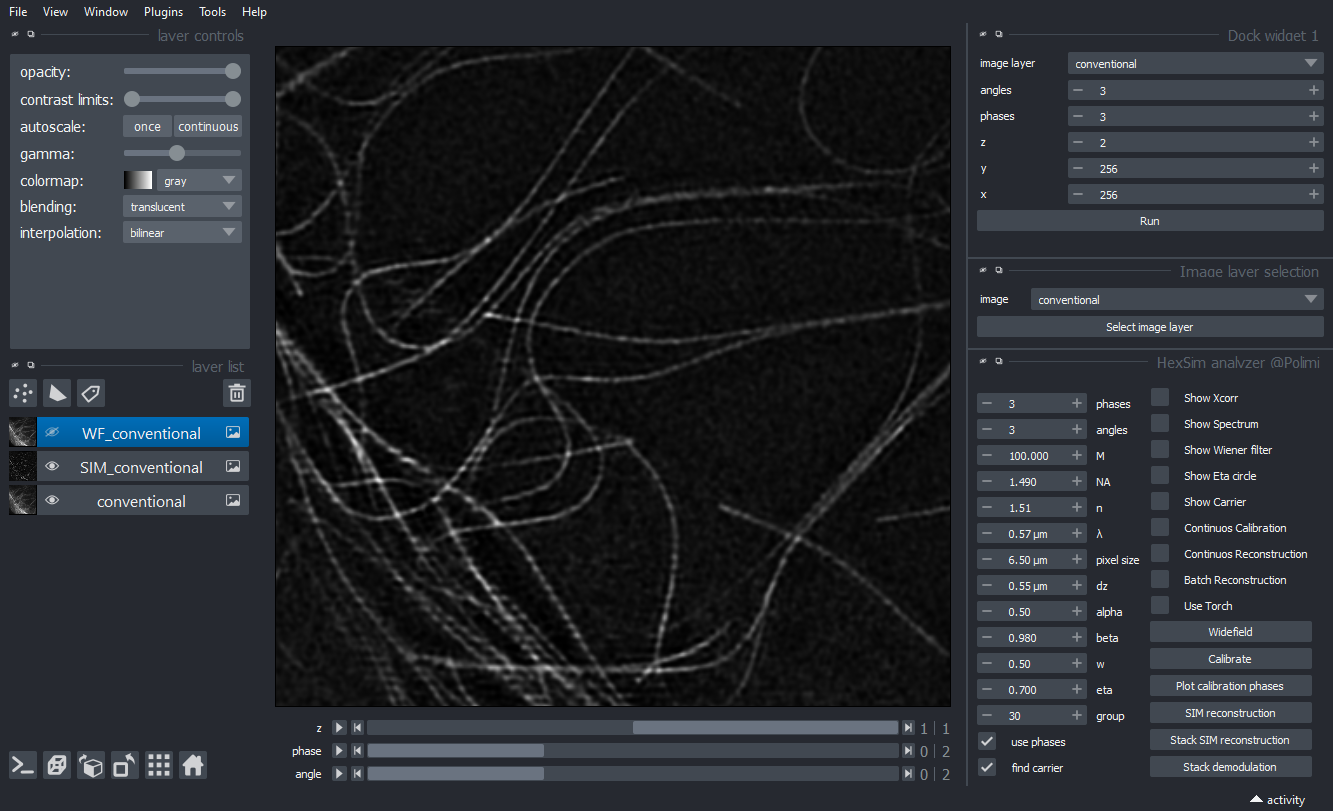
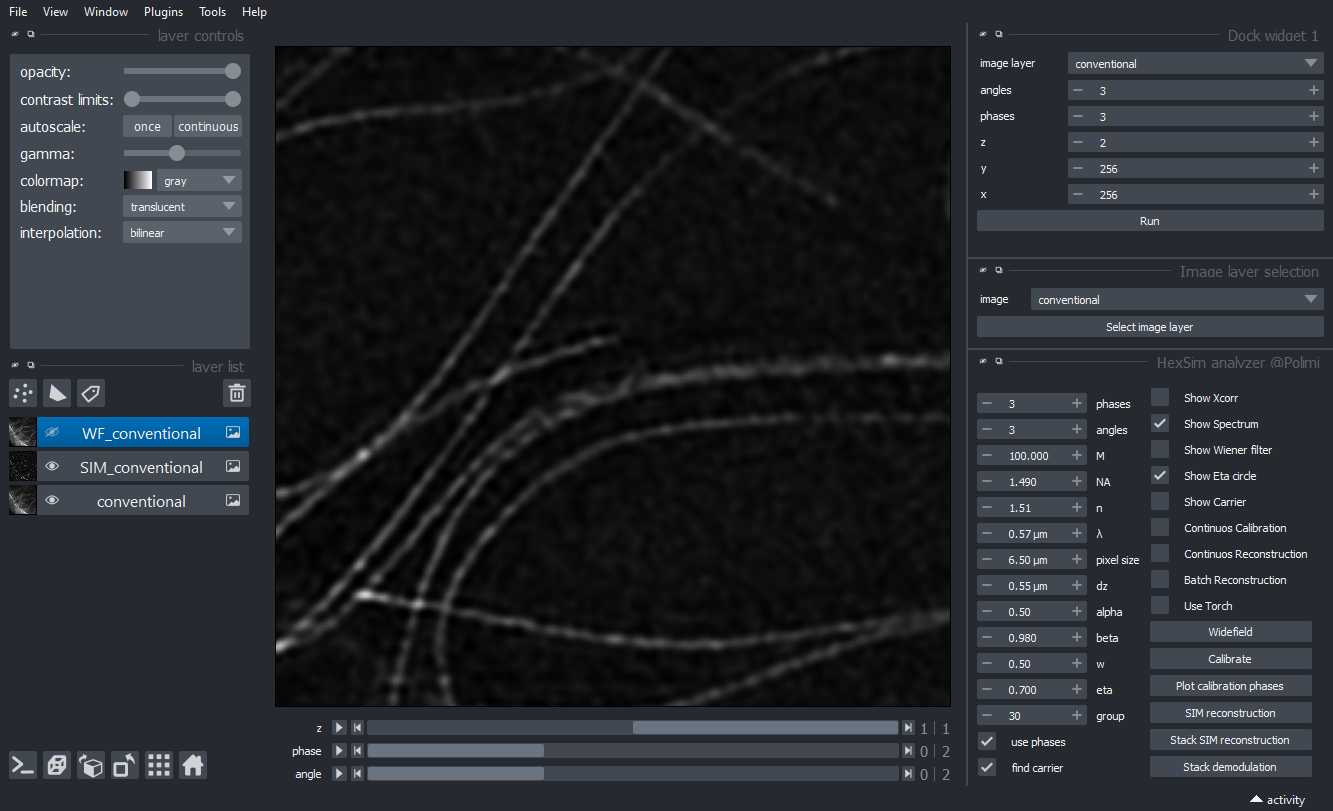
first documentation with figure added

diff --git a/README.md b/README.md
@@ -74,8 +74,11 @@ To install latest development version :
 9) Click on the checkboxes to show the power spectrum of the image or the cross-correlation, to see if the carrier frequency is found correctly
 ![raw](https://github.com/andreabassi78/napari-sim-processor/blob/main/images/Picture2.png)
 
-10) Run the reconstruction of a single plane (SIM reconstruction) or of a stack (Stack reconstruction). Click on the Batch reconstruction checkbox in order to process an entire stack in one shot. Click on the pytorch checkbox for gpu acceleration.
+10) Run the reconstruction of a single plane (SIM reconstruction) or of a stack (Stack reconstruction). After execution, a new image_layer will be added to the napari viewer. Click on the Batch reconstruction checkbox in order to process an entire stack in one shot. Click on the pytorch checkbox for gpu acceleration.
 ![raw](https://github.com/andreabassi78/napari-sim-processor/blob/main/images/Picture3.png)
+**Napari viewer with widgets showing a pseudo-widefield reconstruction**
+![raw](https://github.com/andreabassi78/napari-sim-processor/blob/main/images/Picture3.png)
+**Napari viewer with widgets showing a SIM reconstruction**
 
 ## Contributing
 
